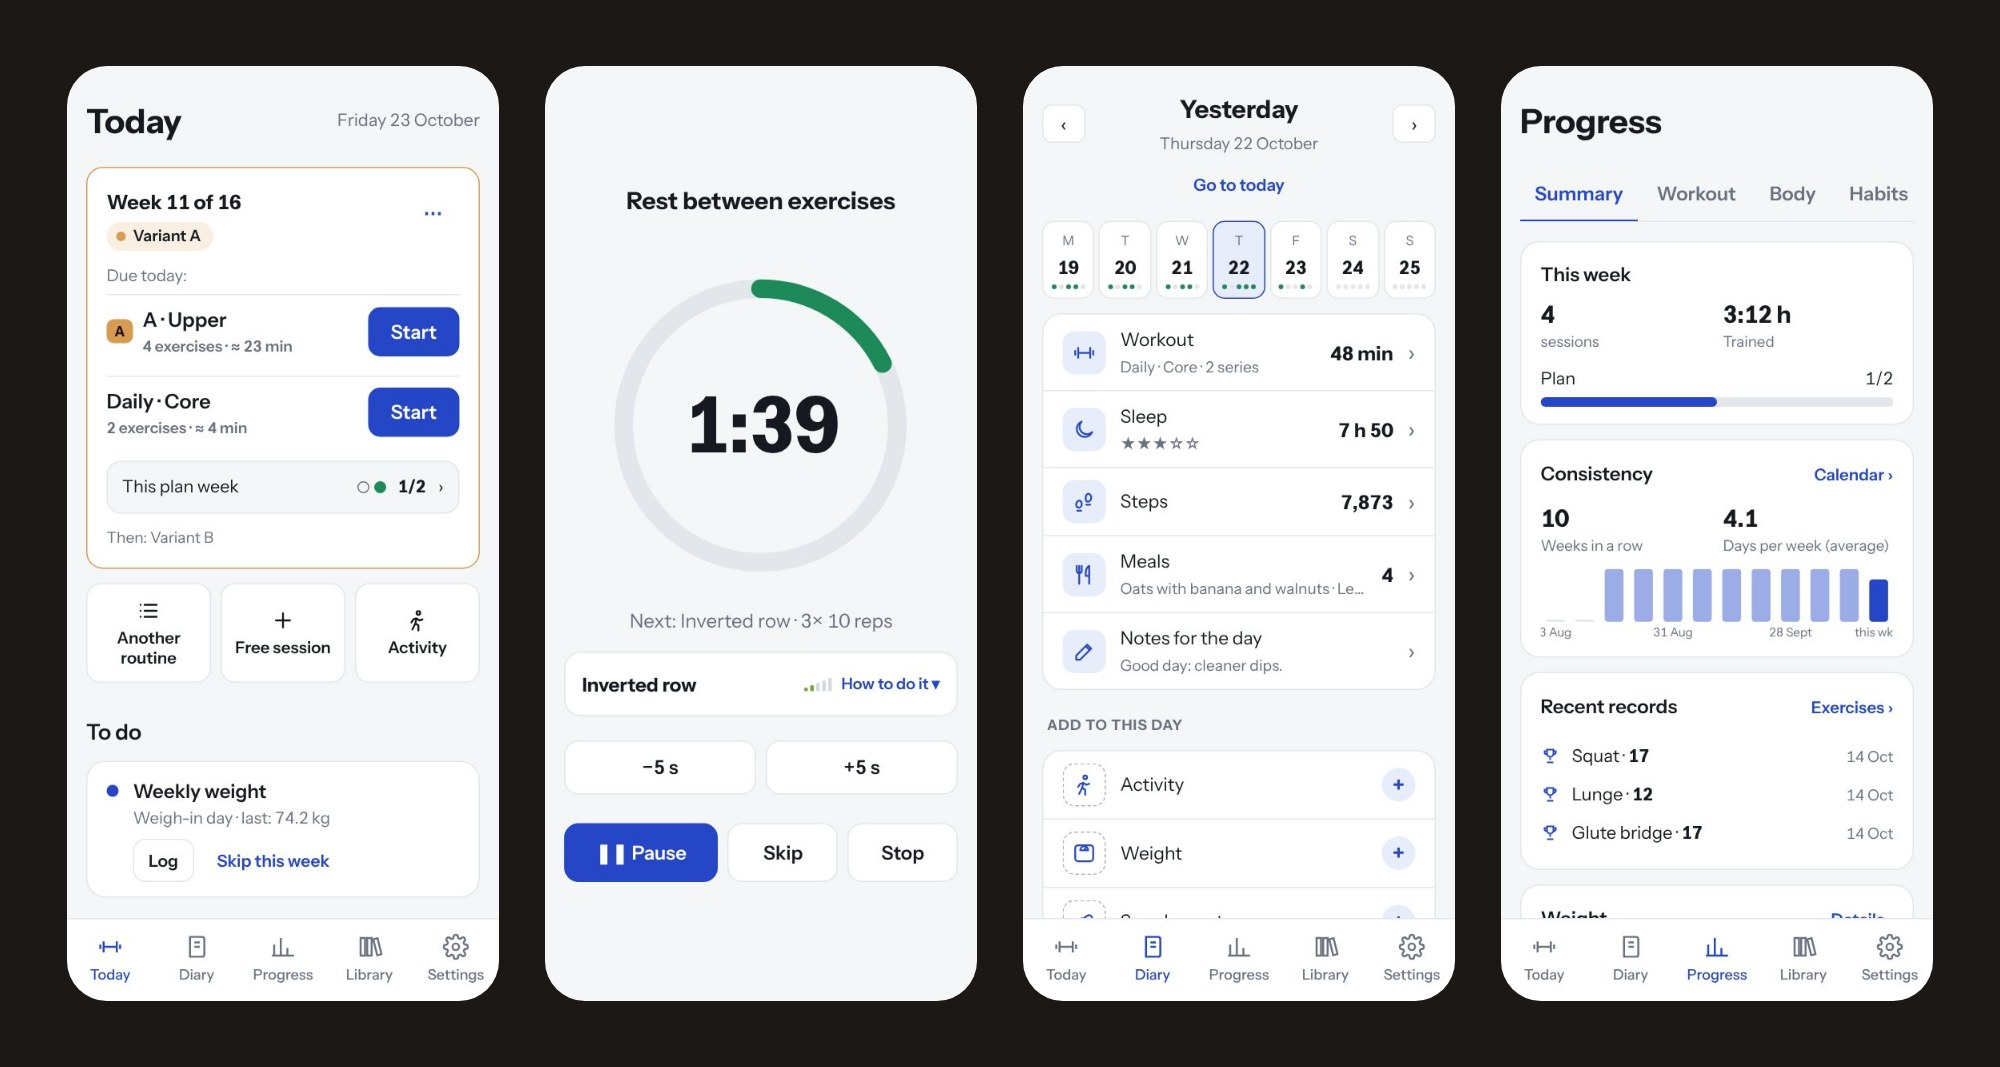
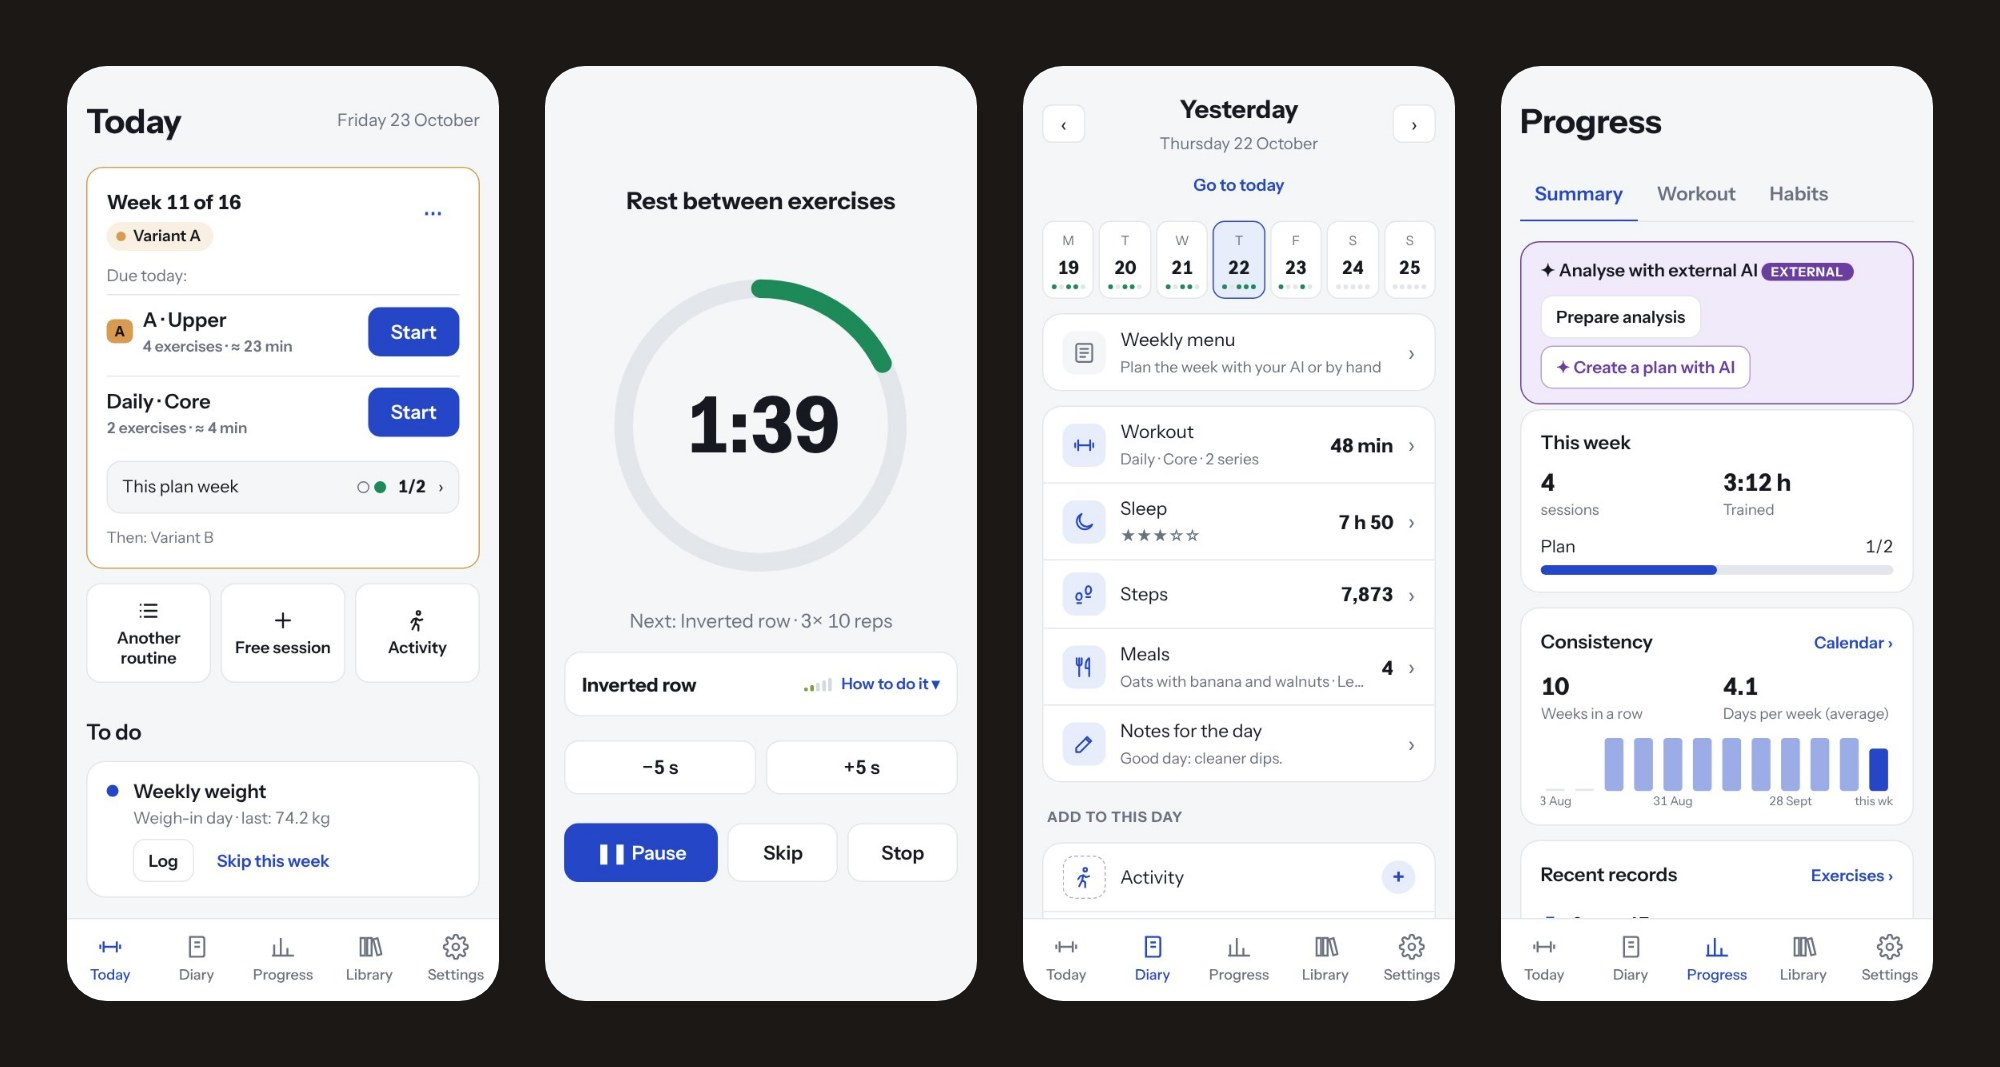
3.11.0: fecha, capturas y ficha de Zapstore
- Capturas regeneradas (Progreso sin Cuerpo, IA arriba).
- zapstore.yaml, README y landing: menú semanal y kettlebell.
- Notas de la ficha (fastlane) de la 3.11.0.

Hecha con IA · probada por humanos.

diff --git a/landing/index.html b/landing/index.html
@@ -301,7 +301,7 @@ const I = {
 			["up", "Progression", "After a session, Usus suggests moving to the next exercise or back to the previous one. You decide."],
 			["book", "Exercise catalogue", "A card for each exercise, equipment and progression.", true],
 			["plan", "Guided plan", "Routines at your level and a plan that rotates variants in order, with deloads and pauses. Also with external AI, which can suggest what to eat too.", true],
-			["diary", "Diary and progress", "Sleep, steps, weight, activity, meals and notes. Consistency, PRs, effort and habits at a glance."],
+			["diary", "Diary and progress", "Sleep, steps, weight, activity, meals, a weekly menu and notes. Consistency, PRs, effort and habits at a glance."],
 			["people", "Profiles", "Several people on one phone, optional cycle tracking and light, dark and protector themes."],
 			["share", "Share without servers", "Send workouts and routines by link, or post them on Nostr in one tap. Backups and CSV export."]
 		],

diff --git a/README.md b/README.md
@@ -17,7 +17,7 @@
 - **Progression:** after a session, Usus suggests moving to the next exercise or back to the previous one. You decide.
 - **Exercise catalogue** *(optional)*: a card for each one, equipment and progression.
 - **Guided plan**, or **with AI** *(optional, external)*: routines at your level and a plan that rotates variants in order, with deloads and pauses.
-- **Diary** for sleep, steps, weight, activity, meals and notes, and **Progress** with consistency, PRs, effort and habits.
+- **Diary** for sleep, steps, weight, activity, meals and notes, a **weekly menu** (by your AI or by hand, with a shopping list), and **Progress** with consistency, PRs, effort and habits.
 - **Profiles** for several people, optional **cycle** tracking and light, dark and protector themes.
 - **Share** workouts and routines with no servers; backups and CSV.
 - **Nostr** *(optional)*: a backup encrypted only for you and posting workouts and routines. Sign in with Amber, a bunker, a browser extension or your npub.

diff --git a/CHANGELOG.md b/CHANGELOG.md
@@ -2,7 +2,7 @@
 
 All Usus versions. Format based on [Keep a Changelog](https://keepachangelog.com/en/1.1.0/); [SemVer](https://semver.org/) numbering (MAJOR.MINOR.PATCH).
 
-## [3.11.0] — in testing (beta)
+## [3.11.0] — 2026-11-22
 
 - Weekly menu, in the Diary: your AI creates it (with your preferences, intolerances and training days) or you fill it in by hand, with short recipes and a shopping list with checkboxes that you can export as Markdown or PDF. For each dish you mark whether you ate it, didn't, or swapped it (for what and why); what you ate goes into Meals, and “Analyse the week” writes the question so your AI adjusts the next menu.
 - Progress: “Analyse with external AI” and “Create a plan with AI” now come first in Summary.
